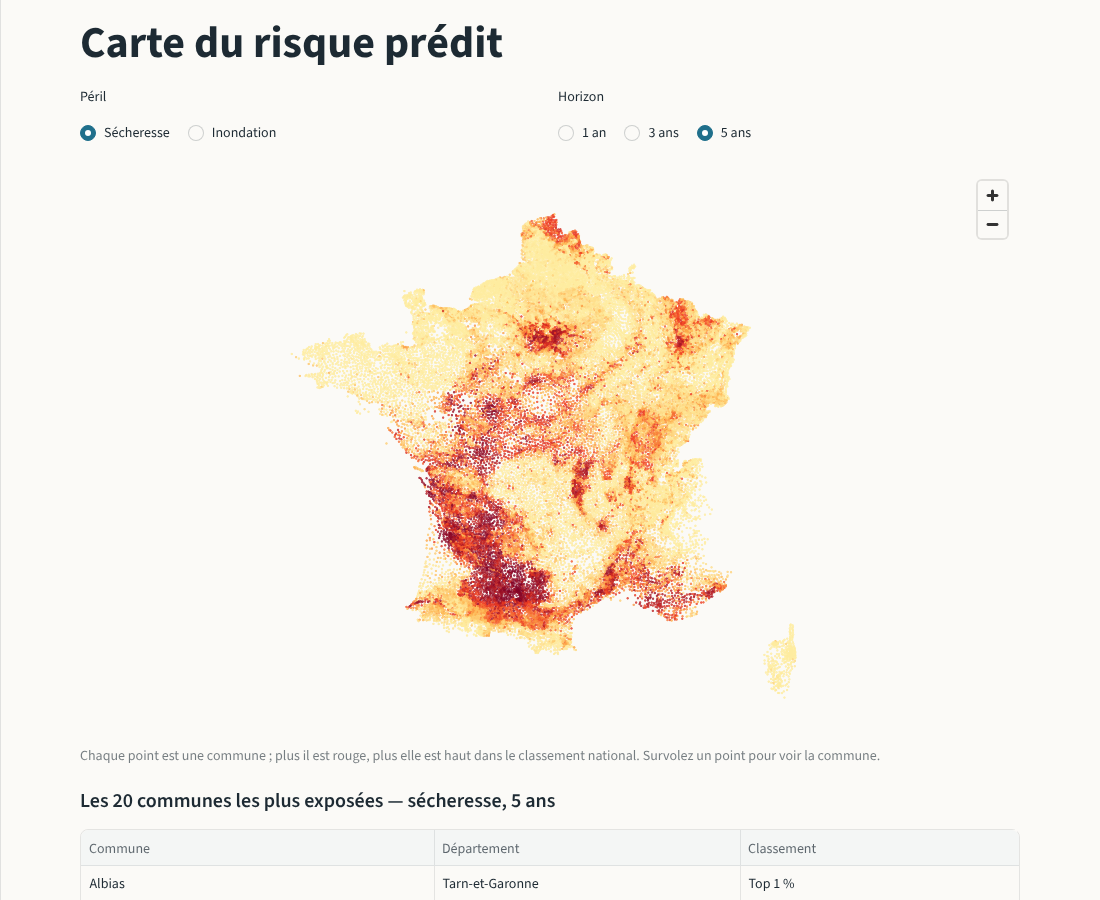
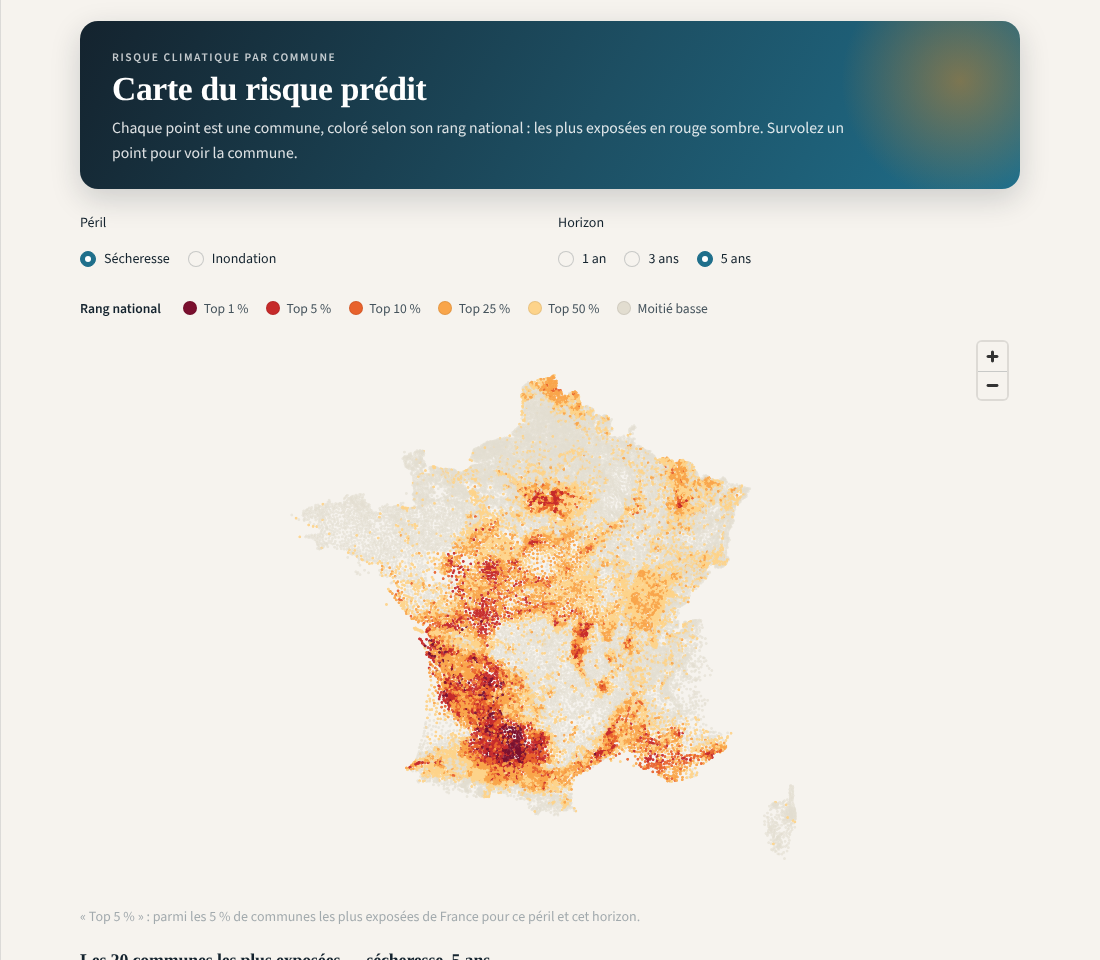
README : lien vers l'application en ligne, captures à jour

diff --git a/README.md b/README.md
@@ -4,6 +4,8 @@
 
 **Statut :** ✅ terminé — 5 étapes, pipeline mis à jour chaque semaine
 
+### 👉 [Ouvrir l'application en ligne](https://risque-catnat.streamlit.app)
+
 [![Pipeline de données](https://github.com/sabcelia1/risque-climatique-communes/actions/workflows/pipeline.yml/badge.svg)](https://github.com/sabcelia1/risque-climatique-communes/actions/workflows/pipeline.yml)
 
 ---
@@ -16,7 +18,7 @@ Choisir une commune pour voir son classement à 1, 3 et 5 ans, ses facteurs de r
 |---|---|
 | ![Page commune](docs/figures/app_commune.png) | ![Carte](docs/figures/app_carte.png) |
 
-Les données de l'application sont exportées chaque semaine par le pipeline (Release [`donnees-app`](https://github.com/sabcelia1/risque-climatique-communes/releases/tag/donnees-app)). Déploiement : [`docs/guide_deploiement.md`](docs/guide_deploiement.md). En local : `lancer_application.bat`, ou `streamlit run app/streamlit_app.py`.
+**En ligne : [risque-catnat.streamlit.app](https://risque-catnat.streamlit.app).** Les données de l'application sont exportées chaque semaine par le pipeline (Release [`donnees-app`](https://github.com/sabcelia1/risque-climatique-communes/releases/tag/donnees-app)). Déploiement : [`docs/guide_deploiement.md`](docs/guide_deploiement.md). En local : `lancer_application.bat`, ou `streamlit run app/streamlit_app.py`.
 
 ## 🎯 Problématique
 
